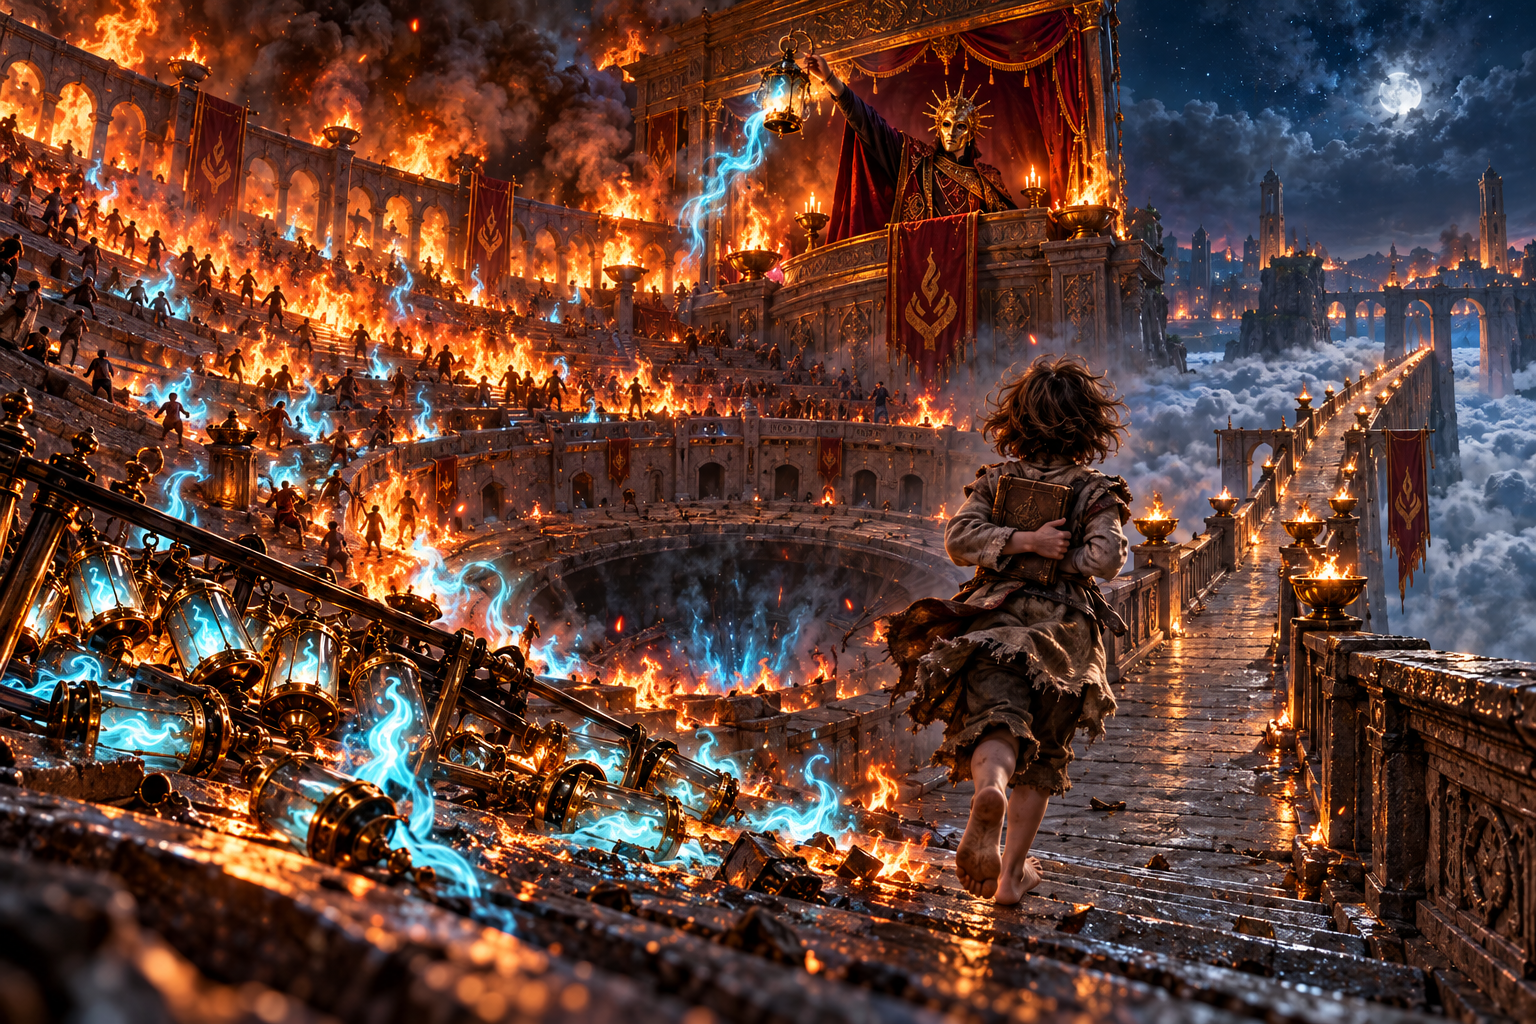
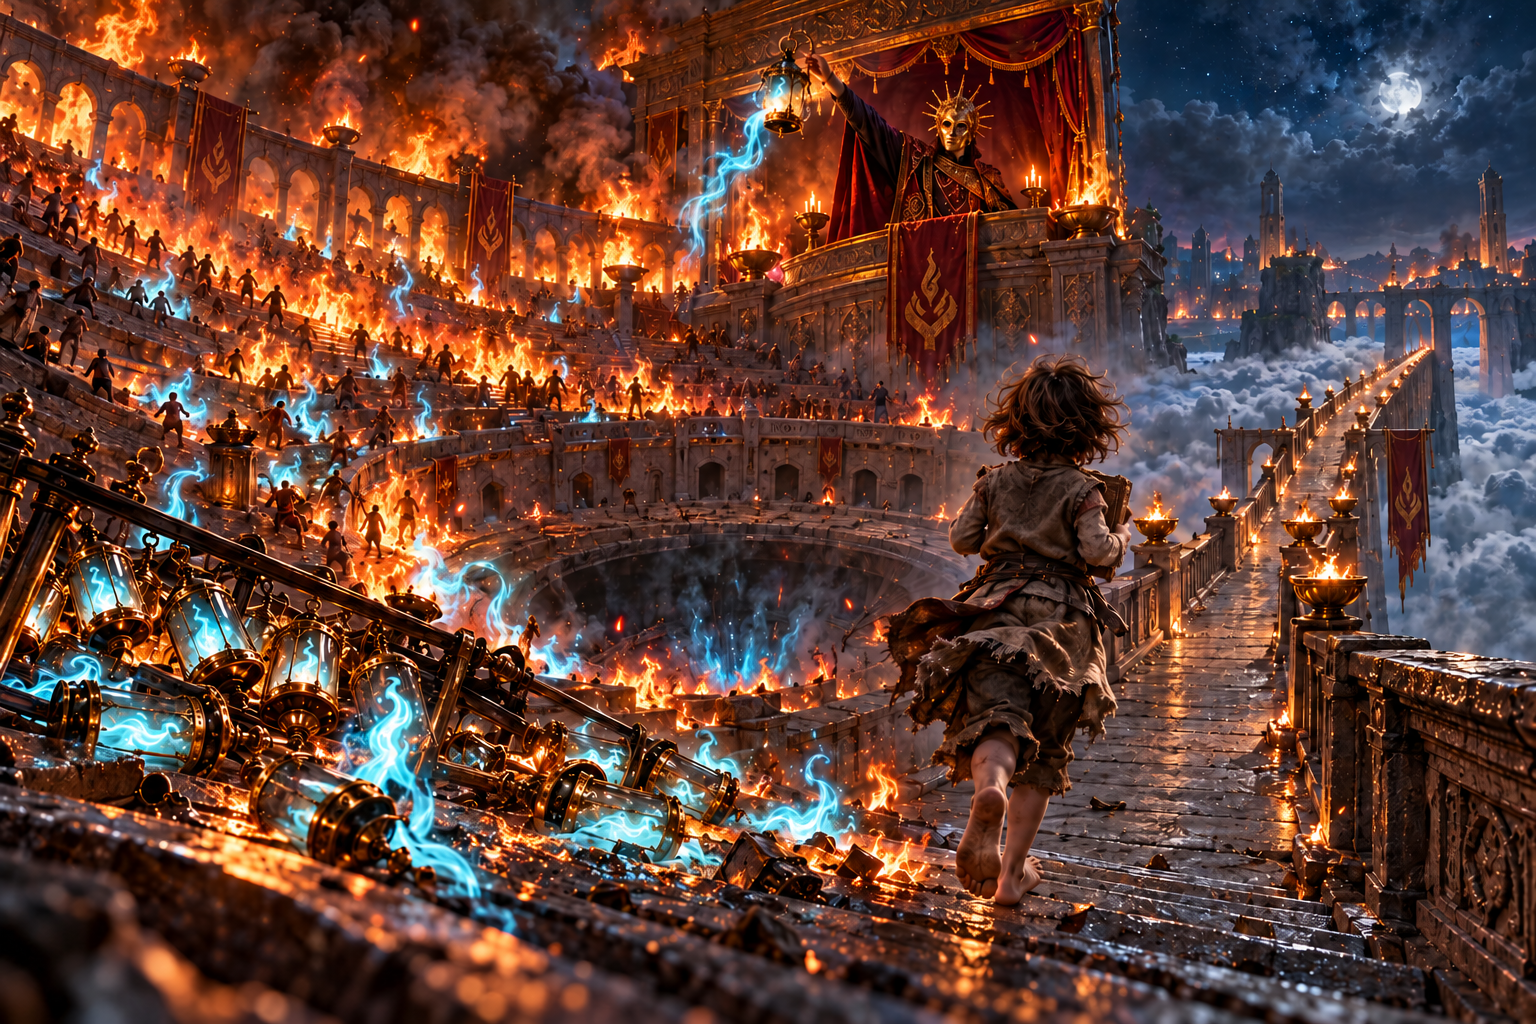
十三度目の灯の子どもの手と帳面の抱え方を修正

diff --git a/docs/art/codex-story-art-brief.md b/docs/art/codex-story-art-brief.md
@@ -953,6 +953,7 @@ The same mansion workshop at night. Irene holds a sketch of a small wooden doll 
 ```
 
 **mem_w37「十三度目の灯」** (主の記憶 / 闘技場の支配者)
+- 修正 (2026-10-16 ユーザーの指示): 後ろ姿の子どもが帳面を胸側に抱えて走るように直す。背中側へ回った不自然な手を除き、肩から肘・手首・手が自然につながる左右一本ずつの腕にする。帳面は体の前に抱え、側面から一部が見える形にする。子どもの顔は見せず、脚・背景・構図・画風・光は保つ。(済)
 - 要点: 三百年よりずっと前の雲の上の町。倒れた闘士の魂は灯籠に入れられ、新しい体で翌日また砂の上に立つ。灯籠の世話は親のいない子どもの仕事 (灯番の子)。いちばん仲のよかった闘士の灯籠が十三度目に黒く濁り、闘技場の真ん中の穴へ捨てられる。その夜、子は棚を倒して帳面を抱いて逃げ、こぼれた魂の火が町を焼く。焼け落ちる貴賓席で、金の仮面の興行主が自分の魂を灯籠に移す。
 - 描くもの: 燃え上がる闘技場の町 / 倒れた灯籠の棚とこぼれる魂の火 / 帳面を抱いて橋へ逃げる小さな子どもの後ろ姿 / 貴賓席の金の仮面の興行主。描かないもの: 弟子・師。子どもの顔 (後ろ姿で)。
 ```text

diff --git a/art/story-review/review/chapter9.md b/art/story-review/review/chapter9.md
@@ -284,6 +284,7 @@
 
 **指示書 (4章)**
 
+- 修正 (2026-10-16 ユーザーの指示): 後ろ姿の子どもが帳面を胸側に抱えて走るように直す。背中側へ回った不自然な手を除き、肩から肘・手首・手が自然につながる左右一本ずつの腕にする。帳面は体の前に抱え、側面から一部が見える形にする。子どもの顔は見せず、脚・背景・構図・画風・光は保つ。(済)
 - 要点: 三百年よりずっと前の雲の上の町。倒れた闘士の魂は灯籠に入れられ、新しい体で翌日また砂の上に立つ。灯籠の世話は親のいない子どもの仕事 (灯番の子)。いちばん仲のよかった闘士の灯籠が十三度目に黒く濁り、闘技場の真ん中の穴へ捨てられる。その夜、子は棚を倒して帳面を抱いて逃げ、こぼれた魂の火が町を焼く。焼け落ちる貴賓席で、金の仮面の興行主が自分の魂を灯籠に移す。
 - 描くもの: 燃え上がる闘技場の町 / 倒れた灯籠の棚とこぼれる魂の火 / 帳面を抱いて橋へ逃げる小さな子どもの後ろ姿 / 貴賓席の金の仮面の興行主。描かないもの: 弟子・師。子どもの顔 (後ろ姿で)。
 
